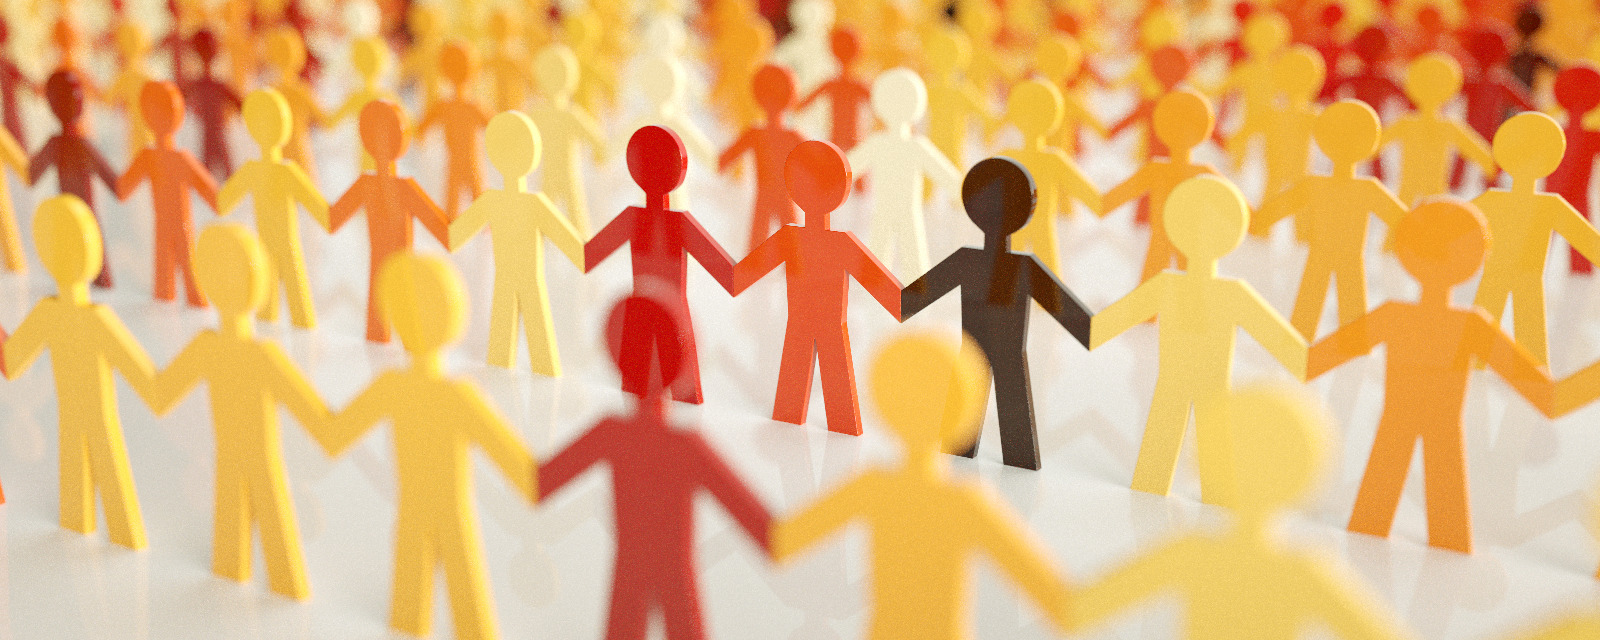
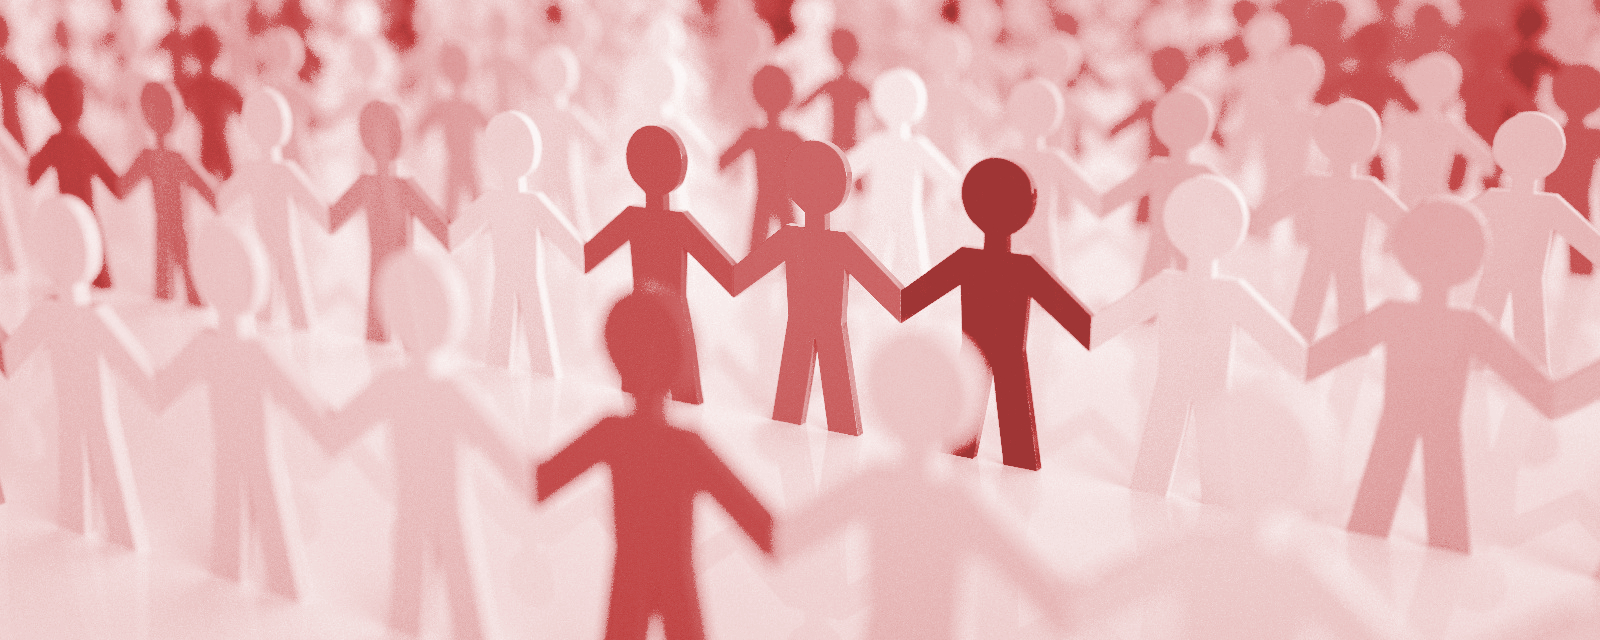
solve color problems

diff --git a/client/index.html b/client/index.html
@@ -29,7 +29,7 @@
     <nav id="sidebar-wrapper">
       <ul class="sidebar-nav">
         <a id="menu-close" href="#" class="btn btn-light btn-lg pull-right toggle">
-          <i class="fa fa-times"></i>
+          <p class="little-button-text">x</p>
         </a>
         <li class="sidebar-brand">
           <a class="js-scroll-trigger" href="#top">Open Society</a>

diff --git a/client/css/stylish-portfolio.css b/client/css/stylish-portfolio.css
@@ -48,8 +48,12 @@ body {
     font-weight: 700;
     margin: 0;
     padding: 0;
+    color: #3a6432;
 }
 
+.text-vertical-center h3 {
+    color: #7fbe47;
+}
 
 /* Custom Button Styles */
 
